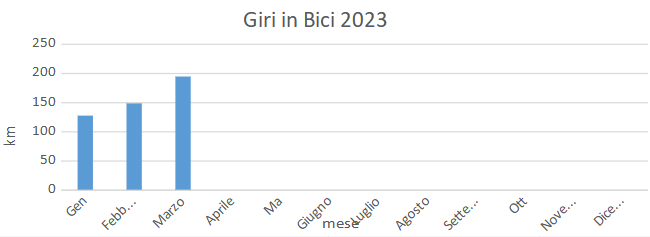
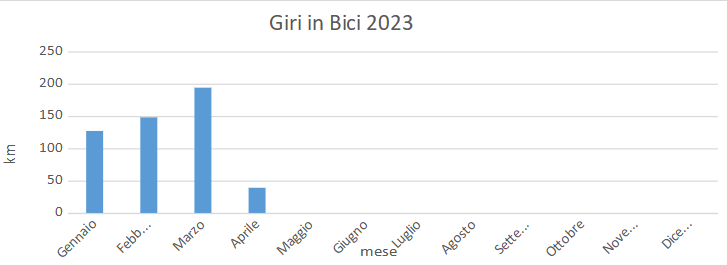
Add files via upload

diff --git a/Style_statistiche.css b/Style_statistiche.css
@@ -38,7 +38,7 @@ tr
 /**colore riga alternato pari**/
 tr:nth-child(2n) 
 {
-    background-color: #ffbb0059;
+    background-color: #00ff6e59;
 }
 
 /**colore riga alternato dispari**/
@@ -50,7 +50,7 @@ tr:nth-child(2n + 3)
 /***colore prima linea tabella**/
 tr:nth-child(-n + 1) 
 {
-    background-color: #ff370060;
+    background-color: #ff00e160;
 }
 
 /**classe che mette in grasetto il testo**/
@@ -59,114 +59,15 @@ tr:nth-child(-n + 1)
     font-weight: bold;
 }
 
-.immagine 
-{
-    display: block;
-    margin:  auto;
-    width: 250px;
-    height: 500px;
-    border: dashed #00ff9d 10px;
-    background-color: yellow;
-}
-
-.Bandiera-FVG 
-{
-    margin:55;
-    width:auto;
-    height: 200px;
-    border: dashed #00ff9d 10px;
-    background-color: yellow;
-}
-
 .Titolo
 {
     font-size: 100px;
-}
-
-.Estate
-{
-    background-color: rgb(240, 228, 64);
-}
-
-.Primavera
-{
-    background-color: rgb(120, 240, 64);
-}
-
-.Autunno-Inverno{
-    background-color: rgb(93, 233, 210);
 }
 
 a
 {
     text-decoration: none;
     color:blue;
-}
-
-
-.colore_apertura{
-    font-family: 'Dancing Script', cursive;
-    color: green;
-}
-
-.corsivo{
-    font-family: 'Dancing Script', cursive;
-}
-
-h1 
-{
-    font-family: 'Dancing Script', cursive;
-    color: #ff0d05;
-    font-size: 50px;
-    text-align: center;
-}
-
-p
-{
-    font-family: 'Hubballi', cursive;
-    font-size: 30px;
-    text-align: center;
-    color: black;
-}
-
-table 
-{
-    width: 100%;
-}
-
-td,th 
-{
-    font-family: 'Roboto', sans-serif;
-    border: 1px solid;
-    text-align: center;
-    padding: 15px;
-    font-size:30px;
-}
-
-tr
-{
-    font-family: 'Roboto', sans-serif;
-    font-size: 20px;
-}
-
-tr:nth-child(2n) 
-{
-    background-color: #09ff0059;
-}
-
-tr:nth-child(2n + 3) 
-{
-    background-color: #f0ec067e;
-}
-
-tr:nth-child(-n + 1) 
-{
-    background-color: #0400ff60;
-}
-
-.grasetto 
-{
-    font-weight: bold;
 }
 
 .immagine 
@@ -188,10 +89,6 @@ tr:nth-child(-n + 1)
     background-color: yellow;
 }
 
-.Titolo
-{
-    font-size: 100px;
-}
 
 a
 {

diff --git a/Statistiche.html b/Statistiche.html
@@ -62,7 +62,7 @@
             </td>
 
             <td>
-                26,3 %
+                26,2 %
             </td>
 
         </tr>
@@ -78,7 +78,7 @@
             </td>
 
             <td>
-                28,08 %
+                27,88 %
             </td>
         </tr>
 
@@ -92,7 +92,7 @@
             </td>
     
             <td>
-                40,7 %
+                40,6 %
             </td>
     
         </tr>
@@ -103,11 +103,11 @@
             </td>
     
             <td>
-                469
+                508
             </td>
     
             <td>
-                5 %
+                5 ,4 %
             </td>
     
         </tr>
@@ -119,11 +119,12 @@
     <br>
 
     <br>
-    <p>totale km fatti 9347</p>
-    <p>km medi percorsi 70,81 km </p>
+    <p>totale km fatti 9386</p>
+    <p>km medi percorsi 70,57 km </p>
     <br>
 
-    <p class="corsivo"><a
+    <p class="corsivo">
+        <a
             href=https://docs.google.com/spreadsheets/d/1dUGdKxiREe10hoMMoICgA66q5asMdZEs/edit?usp=sharing&ouid=112974977248567050919&rtpof=true&sd=true
             target="_blank">Statistiche file excel
             Giri In Bici

diff --git a/Statistiche2023.html b/Statistiche2023.html
@@ -45,25 +45,25 @@
         <tr>
             <td>Gennaio</td>
             <td>127</td>
-            <td>27,1%</td>
+            <td>25 %</td>
         </tr>
 
         <tr>
             <td>Febbraio</td>
             <td>148</td>
-            <td>31,6%</td>
+            <td>29,13 %</td>
         </tr>
 
         <tr>
             <td>Marzo</td>
             <td>194</td>
-            <td>41,4%</td>
+            <td>38,19 %</td>
         </tr>
 
         <tr>
             <td>Aprile</td>
-            <td>0</td>
-            <td>0,0%</td>
+            <td>39</td>
+            <td>7, 68 %</td>
         </tr>
 
     </table>
@@ -73,7 +73,7 @@
     <br>
 
     <br>
-    <p>totale km 469</p>
+    <p>totale km 508</p>
     <p>km medi percorsi 58,63 km </p>
     <br>
     

diff --git a/Primavera2023.html b/Primavera2023.html
@@ -86,11 +86,23 @@
             <td>km</td>
         </tr>
 
+
+        <tr>
+            <td>15 aprile</td>
+            <td>4</td>
+            <td>
+                <a
+                    href="https://www.komoot.com/it-it/tour/1081493388?share_token=aMF9Vk3IxG3jUZMVeElCOZwe0Ud8fOWQNhpxS571e8MFefaYCS&ref=wtd">Ariis</a>
+            </td>
+            <td>39</td>
+            <td>km</td>
+        </tr>
+
     </table>
 
     <br>
-    <p> totale km 194</p>
-    <p>km medi percorsi 64,67</p>
+    <p> totale km 233</p>
+    <p>km medi percorsi 58,25</p>
     <br>
 </body>
 

diff --git a/Estate.css b/Estate.css
@@ -78,23 +78,9 @@ tr:nth-child(-n + 1)
     background-color: yellow;
 }
 
-.Titolo
-{
-    font-size: 100px;
-}
-
 .Estate
 {
     background-color: rgb(240, 228, 64);
-}
-
-.Primavera
-{
-    background-color: rgb(120, 240, 64);
-}
-
-.Autunno-Inverno{
-    background-color: rgb(93, 233, 210);
 }
 
 a
@@ -107,8 +93,4 @@ a
 .colore_apertura{
     font-family: 'Dancing Script', cursive;
     color: rgb(5, 236, 20);
-}
-
-.corsivo{
-    font-family: 'Dancing Script', cursive;
 }

diff --git a/Primavera.css b/Primavera.css
@@ -78,23 +78,9 @@ tr:nth-child(-n + 1)
     background-color: yellow;
 }
 
-.Titolo
-{
-    font-size: 100px;
-}
-
-.Estate
-{
-    background-color: rgb(240, 228, 64);
-}
-
 .Primavera
 {
     background-color: rgb(120, 240, 64);
-}
-
-.Autunno-Inverno{
-    background-color: rgb(93, 233, 210);
 }
 
 a
@@ -107,8 +93,4 @@ a
 .colore_apertura{
     font-family: 'Dancing Script', cursive;
     color: rgb(5, 236, 20);
-}
-
-.corsivo{
-    font-family: 'Dancing Script', cursive;
 }

diff --git a/Autunno _Inverno.css b/Autunno _Inverno.css
@@ -78,20 +78,6 @@ tr:nth-child(-n + 1)
     background-color: yellow;
 }
 
-.Titolo
-{
-    font-size: 100px;
-}
-
-.Estate
-{
-    background-color: rgb(240, 228, 64);
-}
-
-.Primavera
-{
-    background-color: rgb(120, 240, 64);
-}
 
 .Autunno-Inverno{
     background-color: rgb(93, 233, 210);
@@ -107,8 +93,4 @@ a
 .colore_apertura{
     font-family: 'Dancing Script', cursive;
     color: rgb(5, 236, 20);
-}
-
-.corsivo{
-    font-family: 'Dancing Script', cursive;
 }

diff --git a/giri.css b/giri.css
@@ -83,20 +83,6 @@ tr:nth-child(-n + 1)
     font-size: 100px;
 }
 
-.Estate
-{
-    background-color: rgb(240, 228, 64);
-}
-
-.Primavera
-{
-    background-color: rgb(120, 240, 64);
-}
-
-.Autunno-Inverno{
-    background-color: rgb(93, 233, 210);
-}
-
 a
 {
     text-decoration: none;
@@ -109,9 +95,6 @@ a
     color: rgb(5, 236, 20);
 }
 
-.corsivo{
-    font-family: 'Dancing Script', cursive;
-}
 
 input{
     position: relative;
